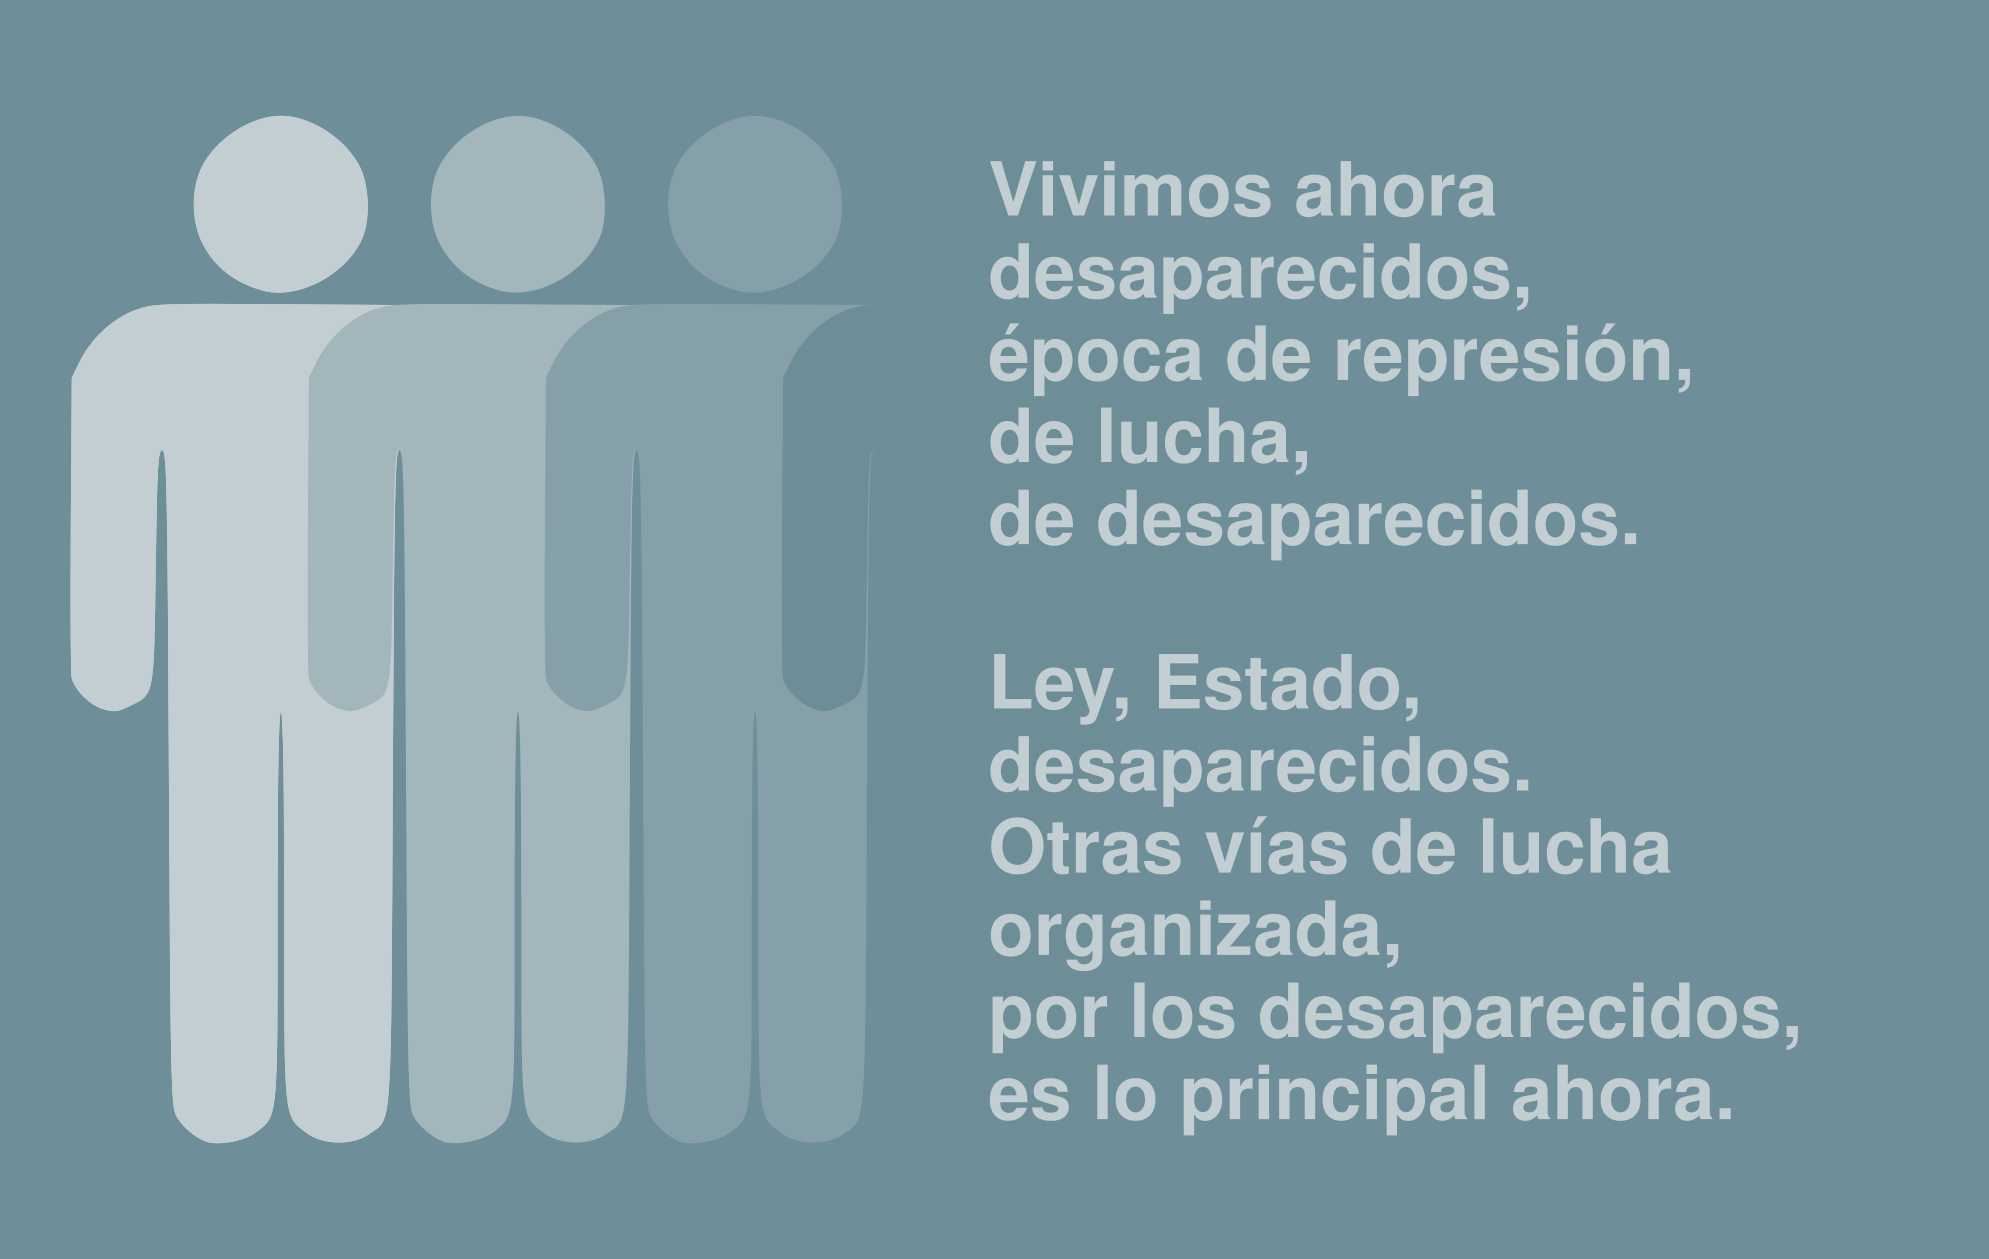
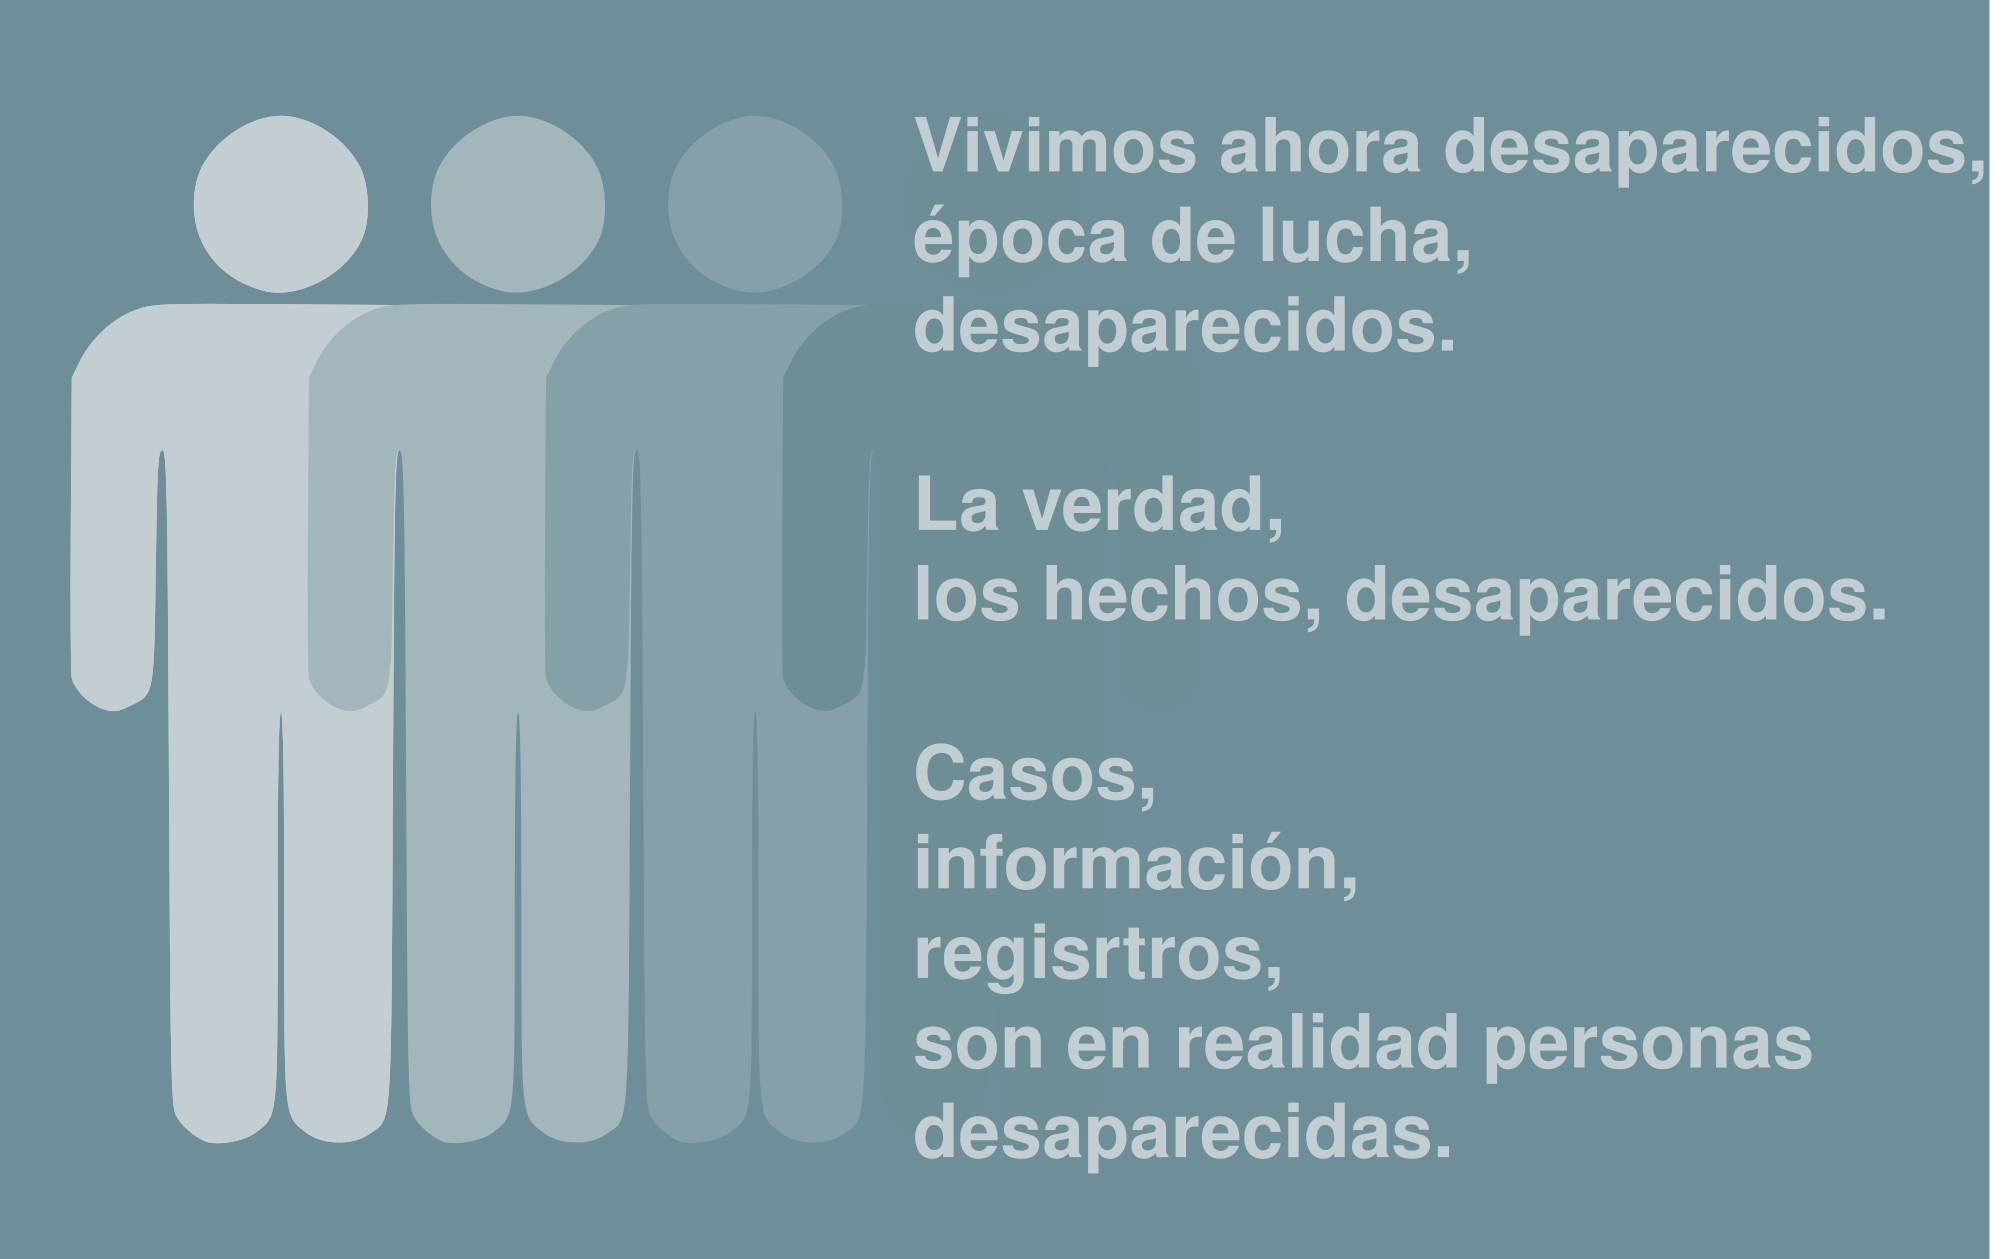
cambios menores

diff --git a/public/efectos.html b/public/efectos.html
@@ -11,7 +11,8 @@
     :root {
       --bg: #cdcf2e;
       --linea: #c8551c;
-      --ink: #191c14;
+      --ink: #c8551c;
+      --linea:#c8551c;
       --white: #ffffff;
       --muted: #6b6f3a;
       --error: #b3251f;
@@ -335,6 +336,9 @@
       .palabra {
         padding: 11px 16px;
       }
+    }
+
+
 
       .stage.glitching{ animation: glitch-flicker .32s steps(2,end); }
   @keyframes glitch-flicker{
@@ -368,6 +372,12 @@
     20%,55%{ opacity:.12; }
   }
 
+#stage
+{
+  height: 100%;
+  width: 100%;
+  position: relative;
+}
 
 
 
@@ -376,15 +386,16 @@
 
 
 
-
-
-
-
-    }
+    
   </style>
   </head>
 
   <body>
+
+
+    <div class="stage" id="stage">
+<div class="glitch-noise" aria-hidden="true"></div>
+  <div class="glitch-line" id="glitchLine" aria-hidden="true"></div>
 
     <div class="fondo-textura" aria-hidden="true"></div>
     <div class="fondo-final oculto" id="fondo-final" aria-hidden="true"></div>
@@ -403,12 +414,7 @@
     <!-- Pantalla: jugando -->
     <div id="juego" class="pantalla oculto">
       <header>
-        <div class="subtitulo">EL VERSO SIN CRUZAR</div>
-        <p class="instrucciones">Sin soltar el mouse, conecta las palabras en el
-          orden correcto para formar el verso. La
-          palabra que parpadea es la siguiente. Si sueltas el mouse antes de
-          terminar, o tu línea se cruza a sí misma,
-          pierdes.</p>
+        <p class="instrucciones">Sin soltar el mouse, conecta las palabras para escribir la carta... la ultima carta posiblemente...</p>
       </header>
 
       <main>
@@ -427,37 +433,38 @@
         <button class="boton primario" id="reintentar" type="button">Intentar de
           nuevo</button>
         <button class="boton secundario" id="boton-regresar"
-          type="button">Regresar a la habitación</button>
+          type="button">Regresar</button>
       </div>
     </div>
 
     <script>
     (function () {
-      "use strict";
+
+"use strict";
+  var reduceMotion = window.matchMedia && window.matchMedia('(prefers-reduced-motion: reduce)').matches;
+  var $ = function(id){ return document.getElementById(id); };
+  var stage = $('stage');
+
 
       // ---------------------------------------------------------------
       // El verso objetivo: cámbialo por el texto real. El orden de VERSO
       // es el orden correcto en el que hay que conectar las palabras.
       // ---------------------------------------------------------------
-      var VERSO_TEXTO = 'Antes de llegar, toda';
-      var VERSO = ['antes', 'de', 'llegar', 'toda'];
+      var VERSO_TEXTO = 'Todo pereció. Solo la tierra árida del infértil naranja quedó. Nos prometieron progreso, pero condenaron su futuro.';
+      var VERSO = ['Todo', 'pereció', 'Solo','la', 'tierra', 'árida', 'de infértil', 'naranja', 'quedó', 'Nos', 'prometieron', 'progreso', 'Pero', 'condenaron', 'su', 'futuro'];
 
       // Posiciones puramente al azar (solo para probar) — SIN ninguna garantía
-      // geométrica de que el camino correcto no se cruce a sí mismo. Puede que
-      // el verso ya no tenga un "camino fácil": quizás solo se pueda ganar
-      // curveando con cuidado, o incluso puede quedar imposible si dos tramos
-      // necesarios se cruzan sin remedio. Es a propósito, para ver qué tan
-      // difícil se pone.
+    
       var POSICIONES = {
         'Todo': { top: 54, left: 86 },
         'pereció': { top: 44, left: 83 },
-        'Solo ': { top: 38, left: 38 },
+        'Solo': { top: 38, left: 38 },
         'la': { top: 27, left: 74 },
         'tierra': { top: 72, left: 78 },
         'árida': { top: 69, left: 43 },
-        'de': { top: 27, left: 53 },
-        'infertil': { top: 17, left: 45 },
-        'naranja': { top: 84, left: 21 },
+        'de infértil': { top: 27, left: 53 },
+        'naranja': { top: 17, left: 45 },
+        'quedó': { top: 84, left: 21 },
         'Nos': { top: 79, left: 30 },
         'prometieron': { top: 74, left: 59 },
         'progreso': { top: 49, left: 21 },
@@ -477,7 +484,7 @@
       var JUEGO_ID = 'efectos';
 
       // A dónde lleva el botón "Regresar a la habitación". Reemplaza esta ruta.
-      var URL_HABITACION = 'https://simbolos.0x000042.com/cultura.html';
+      var URL_HABITACION = 'https://simbolos.0x000042.com/clima.html';
 
       var pantallaFirma = document.getElementById('pantalla-firma');
       var juegoEl = document.getElementById('juego');
@@ -707,7 +714,7 @@
         Object.keys(nodos).forEach(function (t) { nodos[t].classList.remove('siguiente'); });
 
         mostrarPantalla(pantallaFinal);
-        mensajeFinal.textContent = 'Enviando el verso...';
+        mensajeFinal.textContent = 'Enviando la carta...';
         mensajeFinal.className = 'mensaje-final gano';
         mostrarContenidoResultado(VERSO_TEXTO);
         enviarCorreo();
@@ -760,7 +767,7 @@
         // hay que sostener el mouse todo el trayecto: soltarlo antes de llegar
         // a la última palabra también pierde el juego
         if (!terminado && secuencia.length > 0 && secuencia.length < VERSO.length) {
-          perder('soltaste el mouse antes de terminar el verso');
+          perder('soltaste el mouse.');
         }
       }
       lienzo.addEventListener('pointerup', terminarArrastre);
@@ -825,3 +832,6 @@ var glitchLine = $('glitchLine');
   </body>
 
 </html>
+
+
+Perdiste 

diff --git a/public/ausencias.html b/public/ausencias.html
@@ -10,7 +10,7 @@
   :root{
     --bg:#6e8e99ff;
     --linea:rgb(74, 96, 104);
-    --ink:#aacedf;
+    --ink:#316e8a;
     --white:#ffffff;
     --muted:rgb(65, 89, 97);
     --error:#b3251f;
@@ -490,6 +490,13 @@
   </head>
   <body>
 
+
+
+<div class="stage" id="stage">
+
+     <div class="glitch-noise" aria-hidden="true"></div>
+  <div class="glitch-line" id="glitchLine" aria-hidden="true"></div>
+
     <div class="fondo-textura" aria-hidden="true"></div>
     <div class="fondo-final oculto" id="fondo-final" aria-hidden="true"></div>
     <div class="marca">0x000042</div>
@@ -510,11 +517,10 @@
 
         <header>
           <h1>lo que queda cuando algo desaparece</h1>
-          <p id="texto-encabezado">Tienes 15 segundos: todas las palabras del
-            texto se van a ir borrando solas, así que toca las resaltadas antes
-            de que desaparezcan. Cada una que alcances se vuelve parte de un
-            poema. Al reunir más de la mitad, ganas y el poema se envía solo por
-            correo.</p>
+          <p id="texto-encabezado">Tienes 45 segundos: las palabras se iran desapareciendo. Da click en 
+            en las palabras que componen el poema para poderlo realizar. 
+            
+          </p>
         </header>
 
         <div class="tablero" id="tablero">
@@ -606,13 +612,17 @@
       <div class="botones">
         <button id="boton-reiniciar" class="enviar">Escribir poema de
           nuevo</button>
-        <button id="boton-regresar" class="enviar secundario">Regresar a la
-          habitación</button>
+        <button id="boton-regresar" class="enviar secundario">Regresar a la vida...</button>
       </div>
     </div>
 
     <script>
 (function(){
+
+  "use strict";
+  var reduceMotion = window.matchMedia && window.matchMedia('(prefers-reduced-motion: reduce)').matches;
+  var $ = function(id){ return document.getElementById(id); };
+  var stage = $('stage');
   // ---------------------------------------------------------------
   // Configuración
 
@@ -623,12 +633,12 @@
   // identificadores que reconoce; el de esta pieza es "ausencias".
   const JUEGO_ID = "ausencias";
 
-  const UMBRAL_VICTORIA = 0.6;
+  const UMBRAL_VICTORIA = 0.4;
 
  // ---------------------------------------------------------------
   // tiempo
   // ---------------------------------------------------------------
-  const TIEMPO_TOTAL_MS = 25 * 1000;
+  const TIEMPO_TOTAL_MS = 40 * 1000;
 
 // ---------------------------------------------------------------
   // tiempo

diff --git a/public/desaparecidos.html b/public/desaparecidos.html
@@ -298,38 +298,7 @@
     <div class="bolt-spark" id="sparkStart" aria-hidden="true"></div>
     <div class="bolt-spark" id="sparkEnd" aria-hidden="true"></div>
 
-    <div class="panel-card chamf/* ---------------- glitch intermitente (falla de señal) ---------------- */
-  .stage.glitching{ animation: glitch-flicker .32s steps(2,end); }
-  @keyframes glitch-flicker{
-    0%{ filter:none; transform:translate(0,0); }
-    10%{ filter:brightness(1.5) contrast(1.3); transform:translate(-3px,1px); }
-    22%{ filter:brightness(.3) saturate(0); transform:translate(3px,-1px); }
-    38%{ filter:brightness(1.8) hue-rotate(15deg); transform:translate(-2px,0); }
-    52%{ filter:none; transform:translate(1px,1px); }
-    68%{ filter:brightness(.4); transform:translate(-1px,0); }
-    100%{ filter:none; transform:translate(0,0); }
-  }
-  .glitch-line{
-    position:fixed; left:0; width:100%; height:0; background:var(--accent);
-    opacity:0; mix-blend-mode:difference; z-index:50; pointer-events:none;
-  }
-  .stage.glitching .glitch-line{ animation: glitch-line-anim .3s steps(4,end); }
-  @keyframes glitch-line-anim{
-    0%{ height:0; opacity:0; }
-    15%{ height:8px; opacity:.85; }
-    40%{ height:2px; opacity:.5; }
-    65%{ height:14px; opacity:.7; }
-    100%{ height:0; opacity:0; }
-  }
-  .glitch-noise{
-    position:fixed; inset:0; z-index:49; pointer-events:none; opacity:0;
-    background: repeating-linear-gradient(to bottom, rgba(255,255,255,.5) 0 1px, transparent 1px 4px);
-  }
-  .stage.glitching .glitch-noise{ animation: glitch-noise-anim .32s steps(2,end); }
-  @keyframes glitch-noise-anim{
-    0%,100%{ opacity:0; }
-    20%,55%{ opacity:.12; }
-  }er" role="dialog" aria-modal="true" aria-labelledby="panelTitleFocus">
+    <div class="panel-card chamfer" role="dialog" aria-modal="true" aria-labelledby="panelTitleFocus">
       <button class="panel-close chamfer" id="panelClose" aria-label="Cerrar">✕</button>
 
       <div class="content-card" id="panel-juego">

diff --git a/public/clima.html b/public/clima.html
@@ -287,8 +287,8 @@
   <div class="intro" id="intro">
     <div class="intro-op" aria-hidden="true"></div>
     <span class="intro-text">0x000042</span>
-    <p class="intro-poem">La red,<br>antes de ser camino.</p>
-    <span class="intro-sub">MAPA DE NODOS</span>
+    <p class="intro-poem">el juego<br>como forma de manifestación.</p>
+    <span class="intro-sub">Obra lúdica interactiva</span>
   </div>
 
   <div class="menu-app" id="menuApp">
@@ -316,11 +316,14 @@
     <div class="panel-card chamfer" role="dialog" aria-modal="true" aria-labelledby="panelTitleFocus">
       <button class="panel-close chamfer" id="panelClose" aria-label="Cerrar">✕</button>
 
-      <div class="content-card" id="panel-juego">
+         <div class="content-card" id="panel-juego">
         <span class="content-kicker">JUEGO</span>
         <h1 class="content-title">Juego</h1>
-        <p class="carta-body">Acá va el minijuego (placeholder por ahora): pantalla de un juego que se abre desde uno de los nodos.</p>
+        <a class="carta-link chamfer" href="https://efectos.0x000042.com/" target="_blank" rel="noopener">ESCRIBIR CARTA </a>
       </div>
+
+
+
 
       <div class="content-card" id="panel-reloj" hidden>
         <span class="content-kicker">SISTEMA</span>

diff --git a/public/simbolos.html b/public/simbolos.html
@@ -432,6 +432,10 @@
 </head>
 
 <body>
+  <div class="stage" id="stage">
+    <div class="glitch-noise" aria-hidden="true"></div>
+    <div class="glitch-line" id="glitchLine" aria-hidden="true"></div>
+
 
   <div class="fondo-textura" aria-hidden="true"></div>
   <div class="fondo-final oculto" id="fondo-final" aria-hidden="true"></div>
@@ -463,14 +467,18 @@
     <div class="lista-correos oculto" id="lista-correos"></div>
     <div>
       <button id="boton-reiniciar">Escribir carta de nuevo</button>
-      <button id="boton-regresar" class="secundario">Regresar al menu
-        inicial</button>
+      <button id="boton-regresar" class="secundario">Regresar a la vida...</button>
     </div>
   </div>
 
   <script>
     (function () {
       'use strict';
+        var reduceMotion = window.matchMedia && window.matchMedia('(prefers-reduced-motion: reduce)').matches;
+    var $ = function(id){ return document.getElementById(id); };
+
+        var stage = $('stage');
+
 
 
       const GRUPOS_PATRON = [

diff --git a/public/desaparecidos1.html b/public/desaparecidos1.html
@@ -617,3 +617,15 @@
 </script>
 </body>
 </html>
+
+
+
+
+     var VERSO_TEXTO = 'Todo pereció.';
+      var VERSO = ['Todo', 'pereció'];
+
+      // Posiciones puramente al azar (solo para probar) — SIN ninguna garantía
+    
+      var POSICIONES = {
+        'Todo': { top: 54, left: 86 },
+        'pereció': { top: 44, left: 83 },
